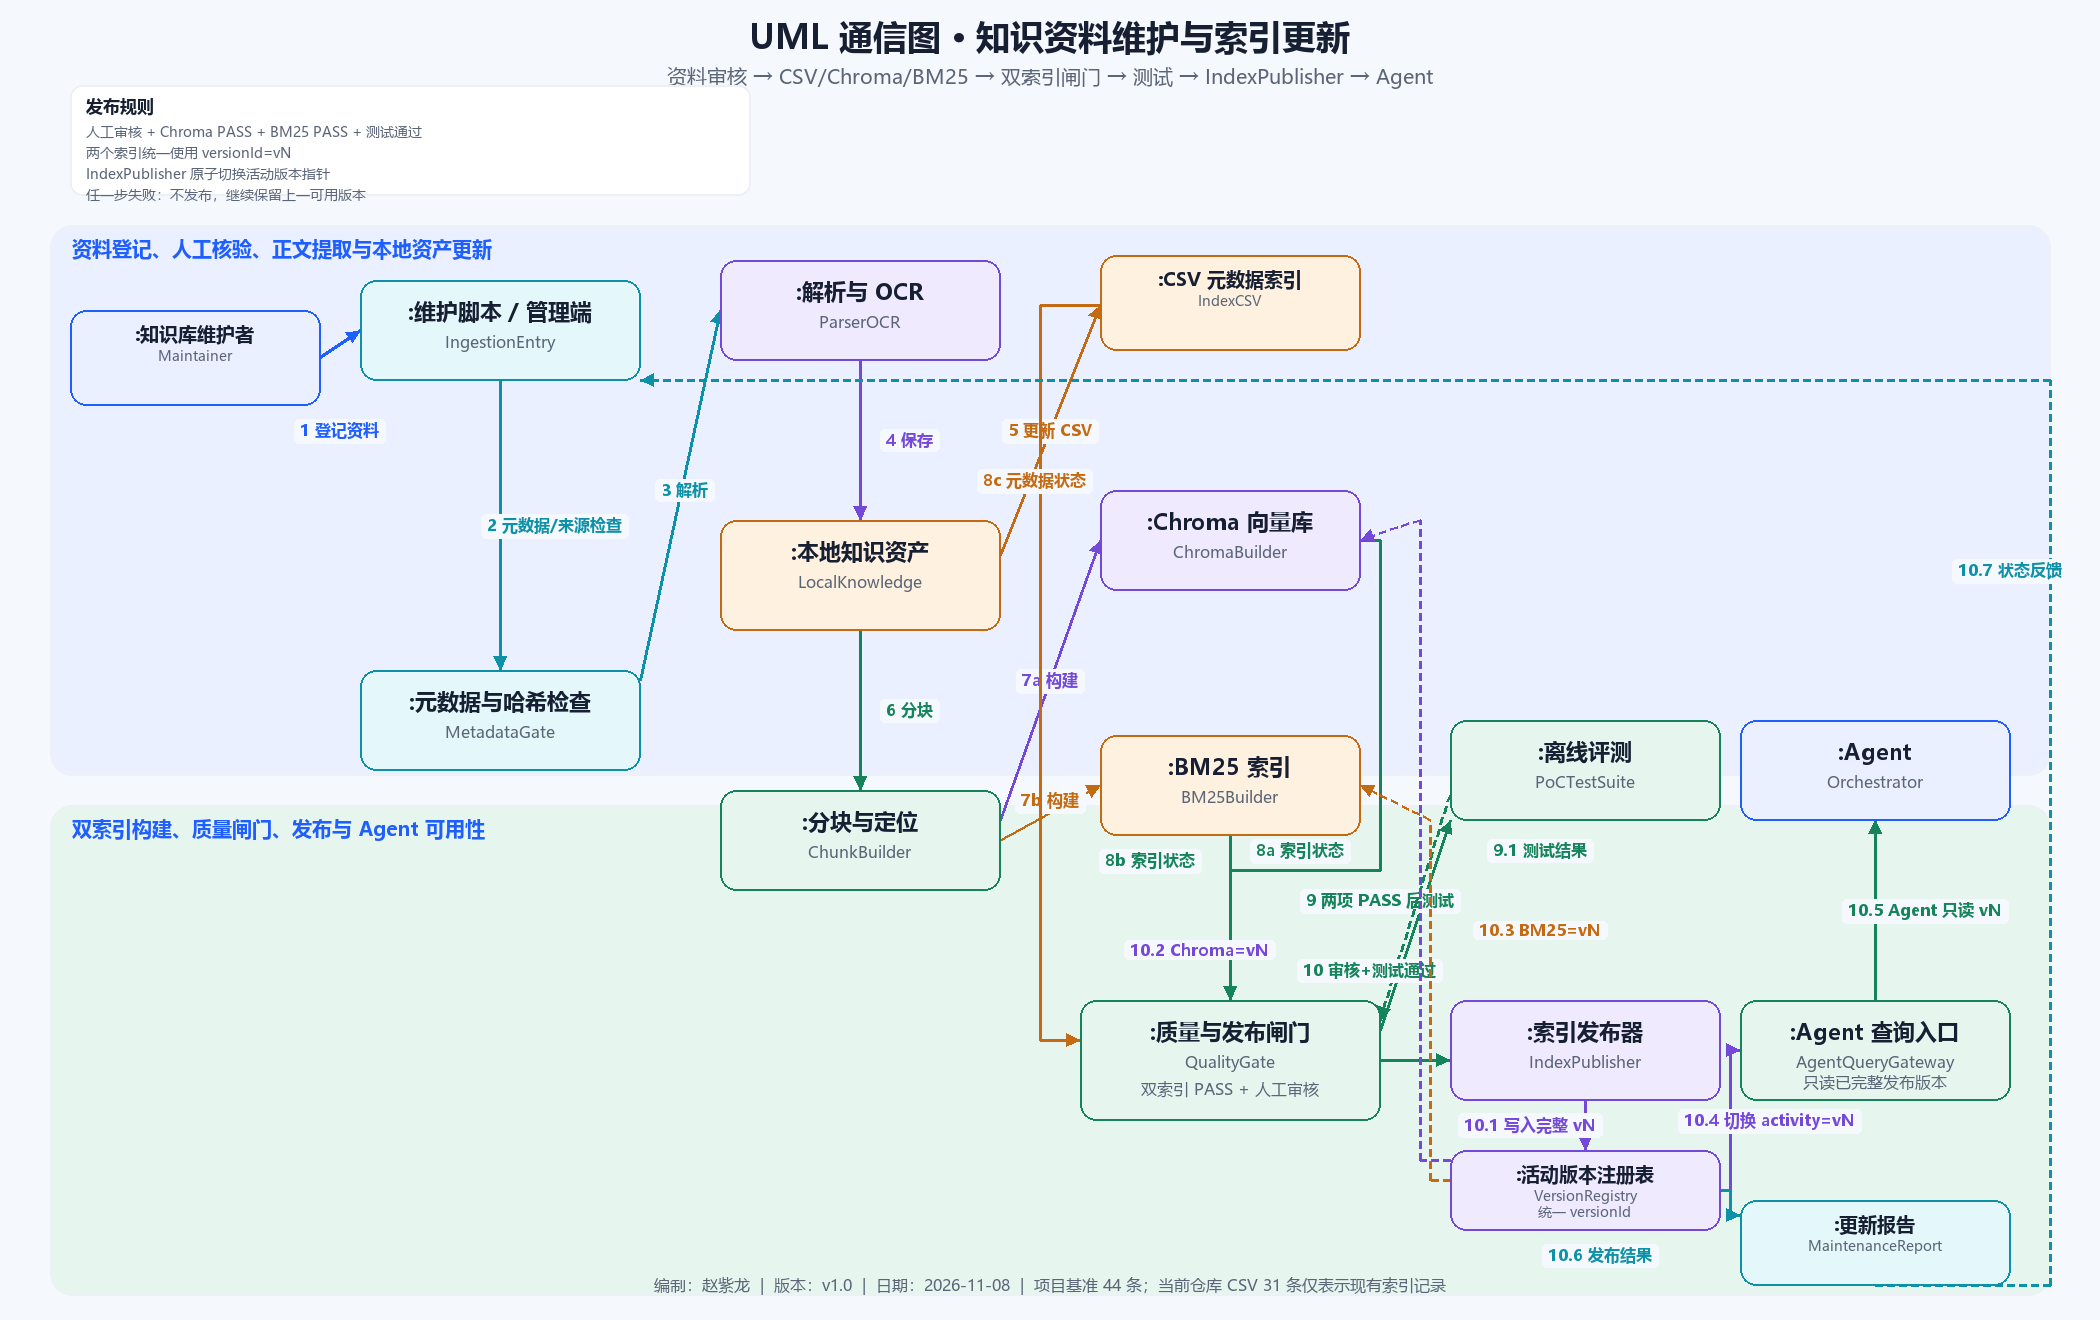
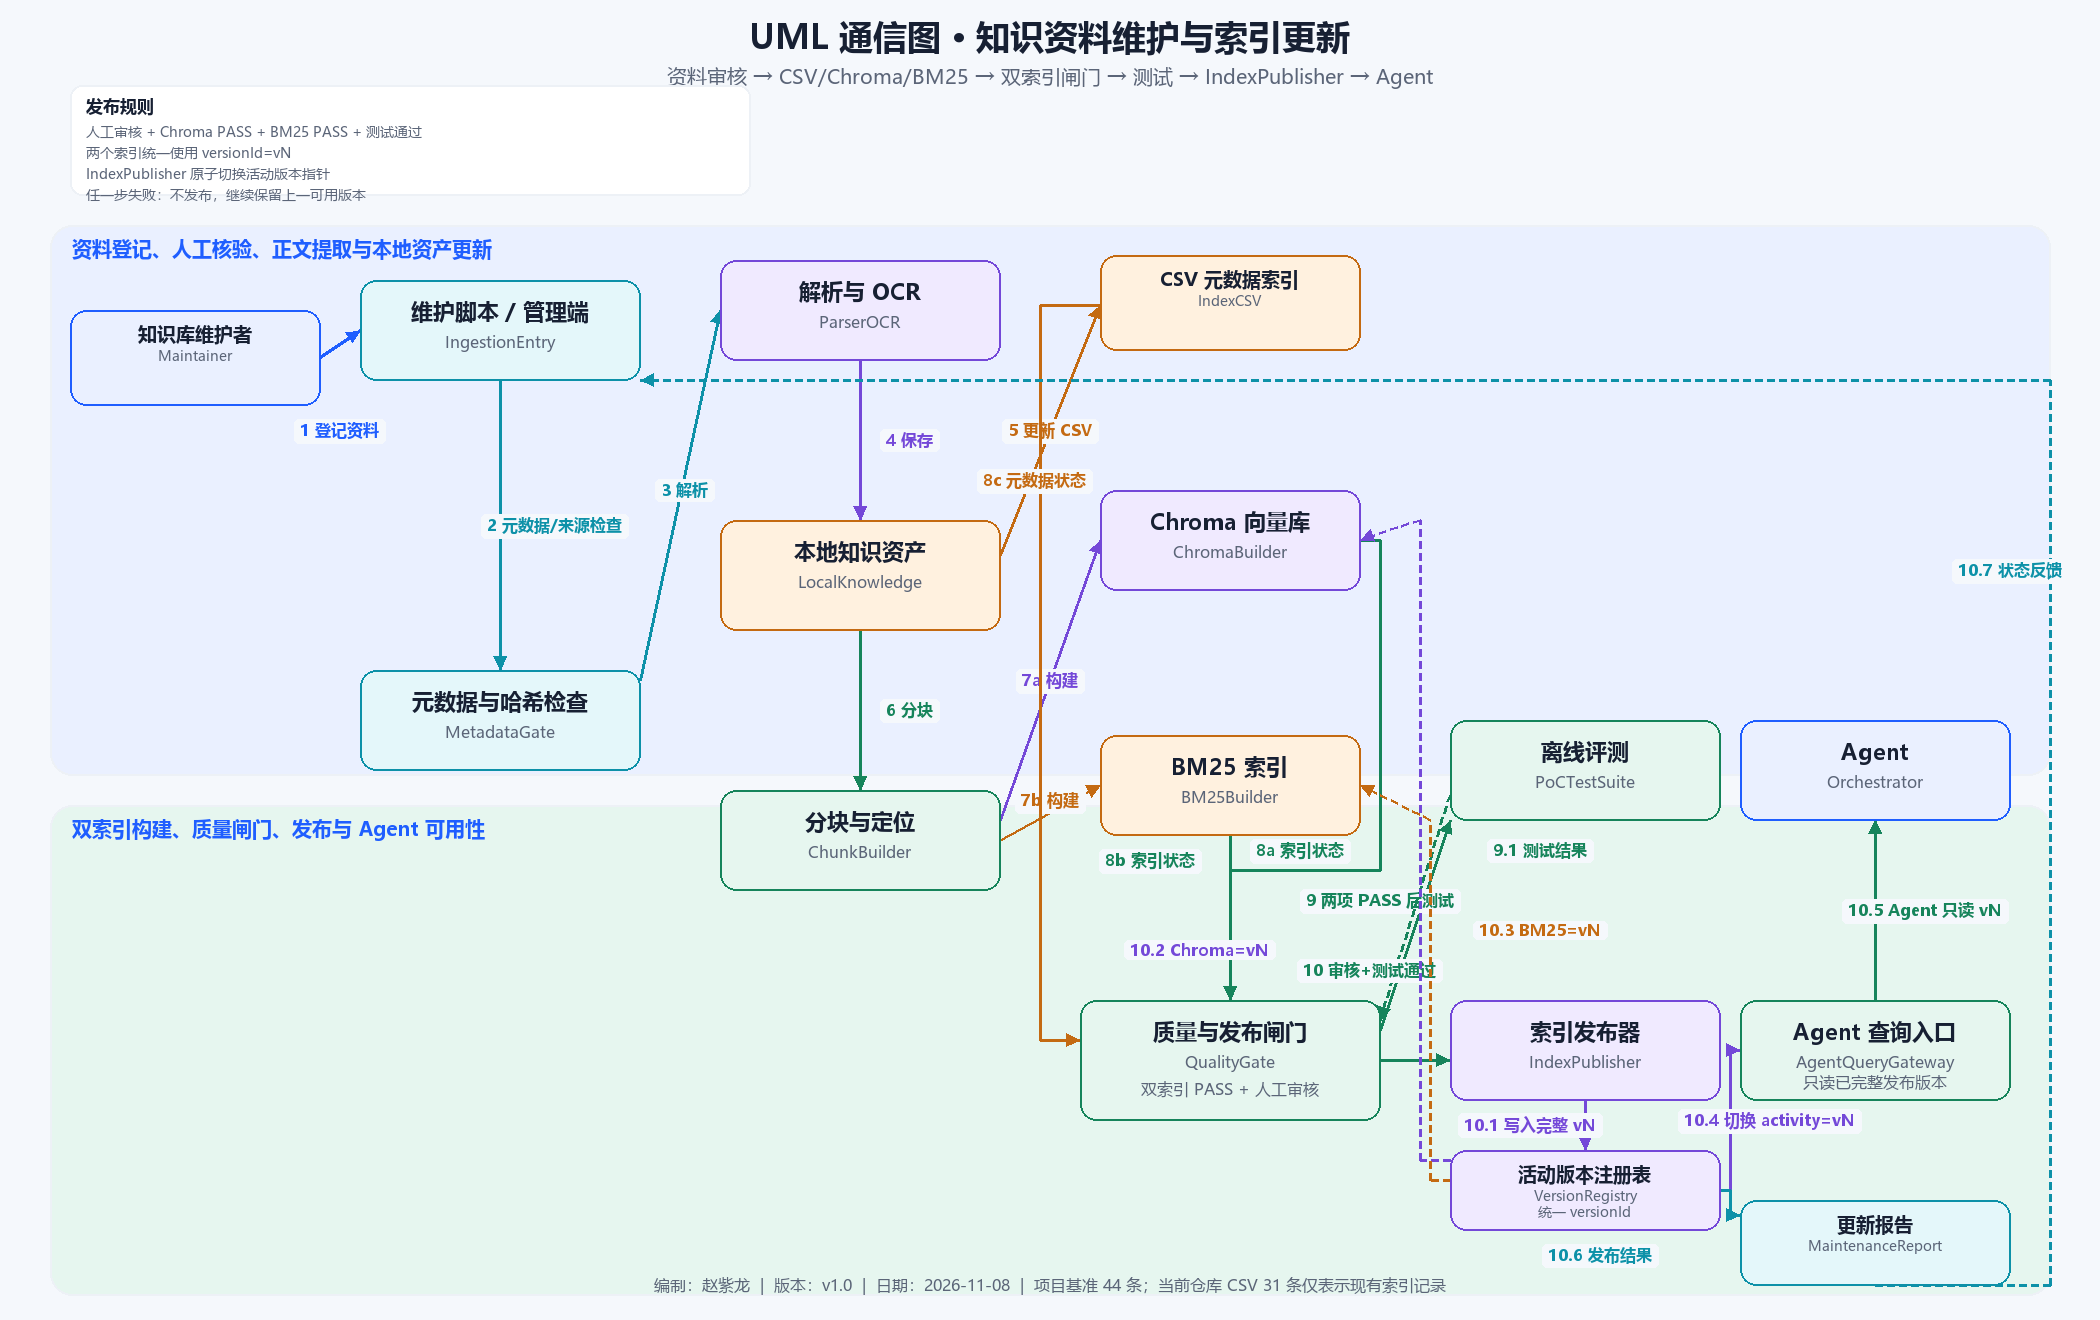
fix(design): remove leading colons from communication nodes

diff --git a/docs/assignment-02/system-design/source/tools/generate_zhaozilong_diagrams.py b/docs/assignment-02/system-design/source/tools/generate_zhaozilong_diagrams.py
@@ -587,21 +587,21 @@ def architecture_scene() -> dict:
 
 def comm_qa_scene() -> dict:
     nodes = [
-        node("browser", 90, 245, 260, 100, ":学生浏览器", ["Browser"], "blue_soft", "blue"),
-        node("frontend", 410, 225, 300, 110, ":Web 用户入口", ["Frontend"], "cyan_soft", "cyan"),
-        node("api", 760, 520, 300, 110, ":FastAPI 后端", ["AskController"], "cyan_soft", "cyan"),
-        node("router", 1130, 210, 280, 110, ":任务识别", ["TaskRouter"], "purple_soft", "purple"),
-        node("clarify", 1500, 210, 280, 100, ":主动追问", ["Clarifier"], "red_soft", "red"),
-        node("agent", 1130, 470, 300, 120, ":Agent 编排器", ["AgentOrchestrator"], "purple_soft", "purple"),
-        node("composer", 1780, 380, 300, 110, ":回答组织", ["AnswerComposer"], "cyan_soft", "cyan"),
-        node("retriever", 760, 820, 300, 110, ":混合检索器", ["HybridRetriever"], "green_soft", "green"),
-        node("chroma", 300, 840, 260, 100, ":Chroma 向量索引", ["ChromaIndex"], "orange_soft", "orange"),
-        node("bm25", 300, 1080, 260, 100, ":BM25 索引", ["BM25Index"], "orange_soft", "orange"),
-        node("rrf", 760, 1080, 300, 100, ":RRF 融合", ["RRFRanker"], "green_soft", "green"),
-        node("verify", 1180, 835, 300, 110, ":生成前证据核验", ["EvidenceVerifier"], "green_soft", "green"),
-        node("tavily", 1600, 1000, 260, 100, ":Tavily（可选）", ["OnlineCheck"], "orange_soft", "orange"),
-        node("qwen", 1600, 760, 260, 100, ":Qwen API", ["LLMAdapter"], "purple_soft", "purple"),
-        node("answerVerifier", 1180, 1080, 300, 110, ":生成后回答复核", ["AnswerVerifier"], "red_soft", "red"),
+        node("browser", 90, 245, 260, 100, "学生浏览器", ["Browser"], "blue_soft", "blue"),
+        node("frontend", 410, 225, 300, 110, "Web 用户入口", ["Frontend"], "cyan_soft", "cyan"),
+        node("api", 760, 520, 300, 110, "FastAPI 后端", ["AskController"], "cyan_soft", "cyan"),
+        node("router", 1130, 210, 280, 110, "任务识别", ["TaskRouter"], "purple_soft", "purple"),
+        node("clarify", 1500, 210, 280, 100, "主动追问", ["Clarifier"], "red_soft", "red"),
+        node("agent", 1130, 470, 300, 120, "Agent 编排器", ["AgentOrchestrator"], "purple_soft", "purple"),
+        node("composer", 1780, 380, 300, 110, "回答组织", ["AnswerComposer"], "cyan_soft", "cyan"),
+        node("retriever", 760, 820, 300, 110, "混合检索器", ["HybridRetriever"], "green_soft", "green"),
+        node("chroma", 300, 840, 260, 100, "Chroma 向量索引", ["ChromaIndex"], "orange_soft", "orange"),
+        node("bm25", 300, 1080, 260, 100, "BM25 索引", ["BM25Index"], "orange_soft", "orange"),
+        node("rrf", 760, 1080, 300, 100, "RRF 融合", ["RRFRanker"], "green_soft", "green"),
+        node("verify", 1180, 835, 300, 110, "生成前证据核验", ["EvidenceVerifier"], "green_soft", "green"),
+        node("tavily", 1600, 1000, 260, 100, "Tavily（可选）", ["OnlineCheck"], "orange_soft", "orange"),
+        node("qwen", 1600, 760, 260, 100, "Qwen API", ["LLMAdapter"], "purple_soft", "purple"),
+        node("answerVerifier", 1180, 1080, 300, 110, "生成后回答复核", ["AnswerVerifier"], "red_soft", "red"),
     ]
     flows = [
         message("q01", "browser", "frontend", [(350, 295), (410, 270)], "blue", "1 提交", (380, 250)),
@@ -660,22 +660,22 @@ def comm_qa_scene() -> dict:
 
 def comm_ingestion_scene() -> dict:
     nodes = [
-        node("maintainer", 70, 240, 250, 95, ":知识库维护者", ["Maintainer"], "blue_soft", "blue"),
-        node("entry", 360, 210, 280, 100, ":维护脚本 / 管理端", ["IngestionEntry"], "cyan_soft", "cyan"),
-        node("metadata", 360, 600, 280, 100, ":元数据与哈希检查", ["MetadataGate"], "cyan_soft", "cyan"),
-        node("parser", 720, 190, 280, 100, ":解析与 OCR", ["ParserOCR"], "purple_soft", "purple"),
-        node("local", 720, 450, 280, 110, ":本地知识资产", ["LocalKnowledge"], "orange_soft", "orange"),
-        node("chunks", 720, 720, 280, 100, ":分块与定位", ["ChunkBuilder"], "green_soft", "green"),
-        node("csv", 1100, 185, 260, 95, ":CSV 元数据索引", ["IndexCSV"], "orange_soft", "orange"),
-        node("chroma", 1100, 420, 260, 100, ":Chroma 向量库", ["ChromaBuilder"], "purple_soft", "purple"),
-        node("bm25", 1100, 665, 260, 100, ":BM25 索引", ["BM25Builder"], "orange_soft", "orange"),
-        node("quality", 1080, 930, 300, 120, ":质量与发布闸门", ["QualityGate", "双索引 PASS + 人工审核"], "green_soft", "green"),
-        node("tests", 1450, 650, 270, 100, ":离线评测", ["PoCTestSuite"], "green_soft", "green"),
-        node("publisher", 1450, 930, 270, 100, ":索引发布器", ["IndexPublisher"], "purple_soft", "purple"),
-        node("versionRegistry", 1450, 1080, 270, 80, ":活动版本注册表", ["VersionRegistry", "统一 versionId"], "purple_soft", "purple"),
-        node("agentGateway", 1740, 930, 270, 100, ":Agent 查询入口", ["AgentQueryGateway", "只读已完整发布版本"], "green_soft", "green"),
-        node("agent", 1740, 650, 270, 100, ":Agent", ["Orchestrator"], "blue_soft", "blue"),
-        node("report", 1740, 1130, 270, 85, ":更新报告", ["MaintenanceReport"], "cyan_soft", "cyan"),
+        node("maintainer", 70, 240, 250, 95, "知识库维护者", ["Maintainer"], "blue_soft", "blue"),
+        node("entry", 360, 210, 280, 100, "维护脚本 / 管理端", ["IngestionEntry"], "cyan_soft", "cyan"),
+        node("metadata", 360, 600, 280, 100, "元数据与哈希检查", ["MetadataGate"], "cyan_soft", "cyan"),
+        node("parser", 720, 190, 280, 100, "解析与 OCR", ["ParserOCR"], "purple_soft", "purple"),
+        node("local", 720, 450, 280, 110, "本地知识资产", ["LocalKnowledge"], "orange_soft", "orange"),
+        node("chunks", 720, 720, 280, 100, "分块与定位", ["ChunkBuilder"], "green_soft", "green"),
+        node("csv", 1100, 185, 260, 95, "CSV 元数据索引", ["IndexCSV"], "orange_soft", "orange"),
+        node("chroma", 1100, 420, 260, 100, "Chroma 向量库", ["ChromaBuilder"], "purple_soft", "purple"),
+        node("bm25", 1100, 665, 260, 100, "BM25 索引", ["BM25Builder"], "orange_soft", "orange"),
+        node("quality", 1080, 930, 300, 120, "质量与发布闸门", ["QualityGate", "双索引 PASS + 人工审核"], "green_soft", "green"),
+        node("tests", 1450, 650, 270, 100, "离线评测", ["PoCTestSuite"], "green_soft", "green"),
+        node("publisher", 1450, 930, 270, 100, "索引发布器", ["IndexPublisher"], "purple_soft", "purple"),
+        node("versionRegistry", 1450, 1080, 270, 80, "活动版本注册表", ["VersionRegistry", "统一 versionId"], "purple_soft", "purple"),
+        node("agentGateway", 1740, 930, 270, 100, "Agent 查询入口", ["AgentQueryGateway", "只读已完整发布版本"], "green_soft", "green"),
+        node("agent", 1740, 650, 270, 100, "Agent", ["Orchestrator"], "blue_soft", "blue"),
+        node("report", 1740, 1130, 270, 85, "更新报告", ["MaintenanceReport"], "cyan_soft", "cyan"),
     ]
     flows = [
         message("i01", "maintainer", "entry", [(320, 287), (360, 260)], "blue", "1 登记资料", (340, 360)),
